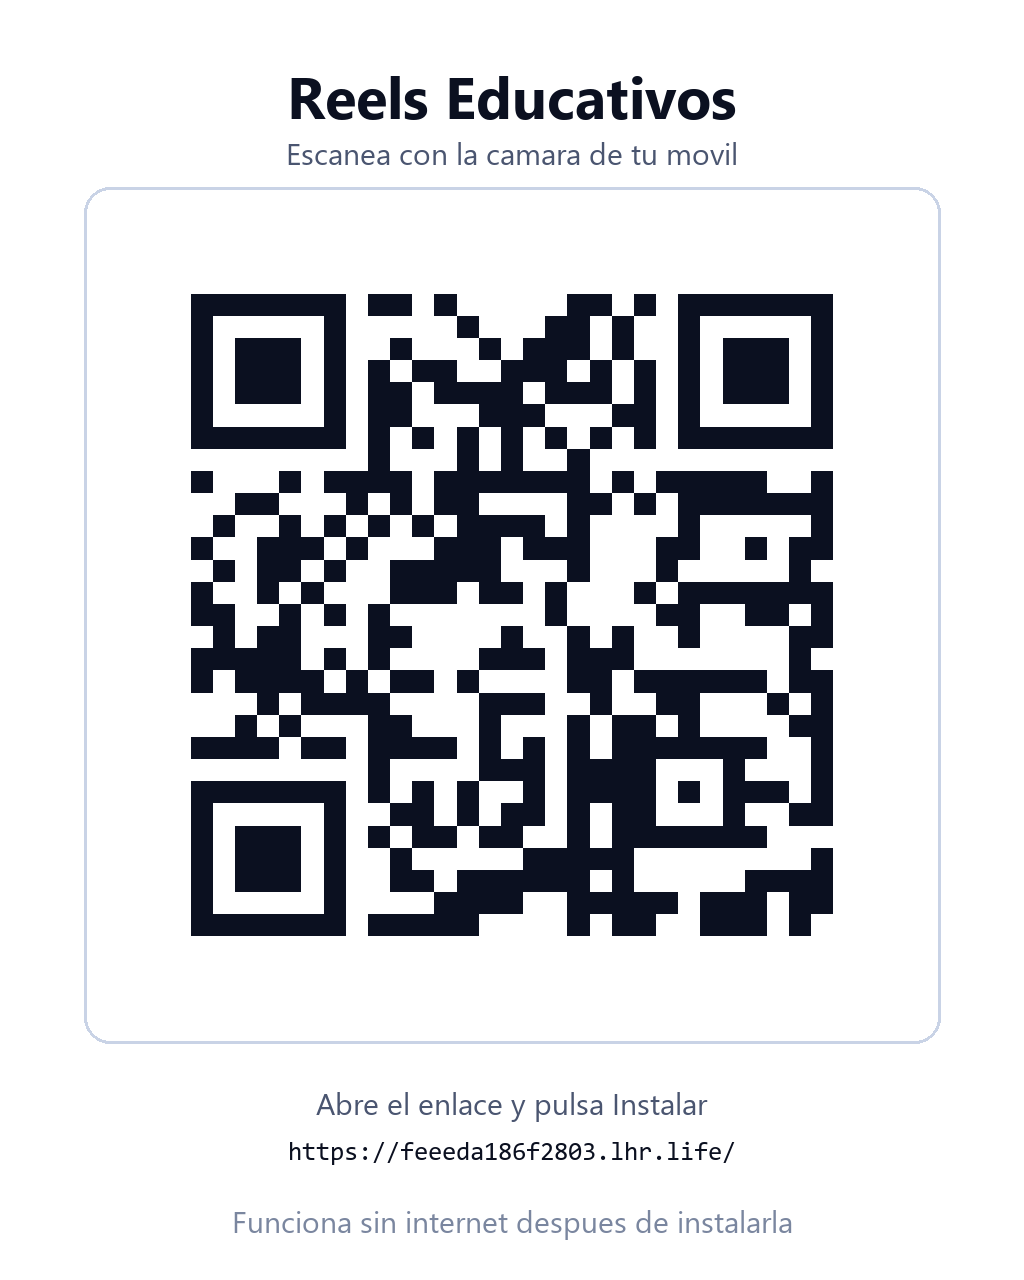
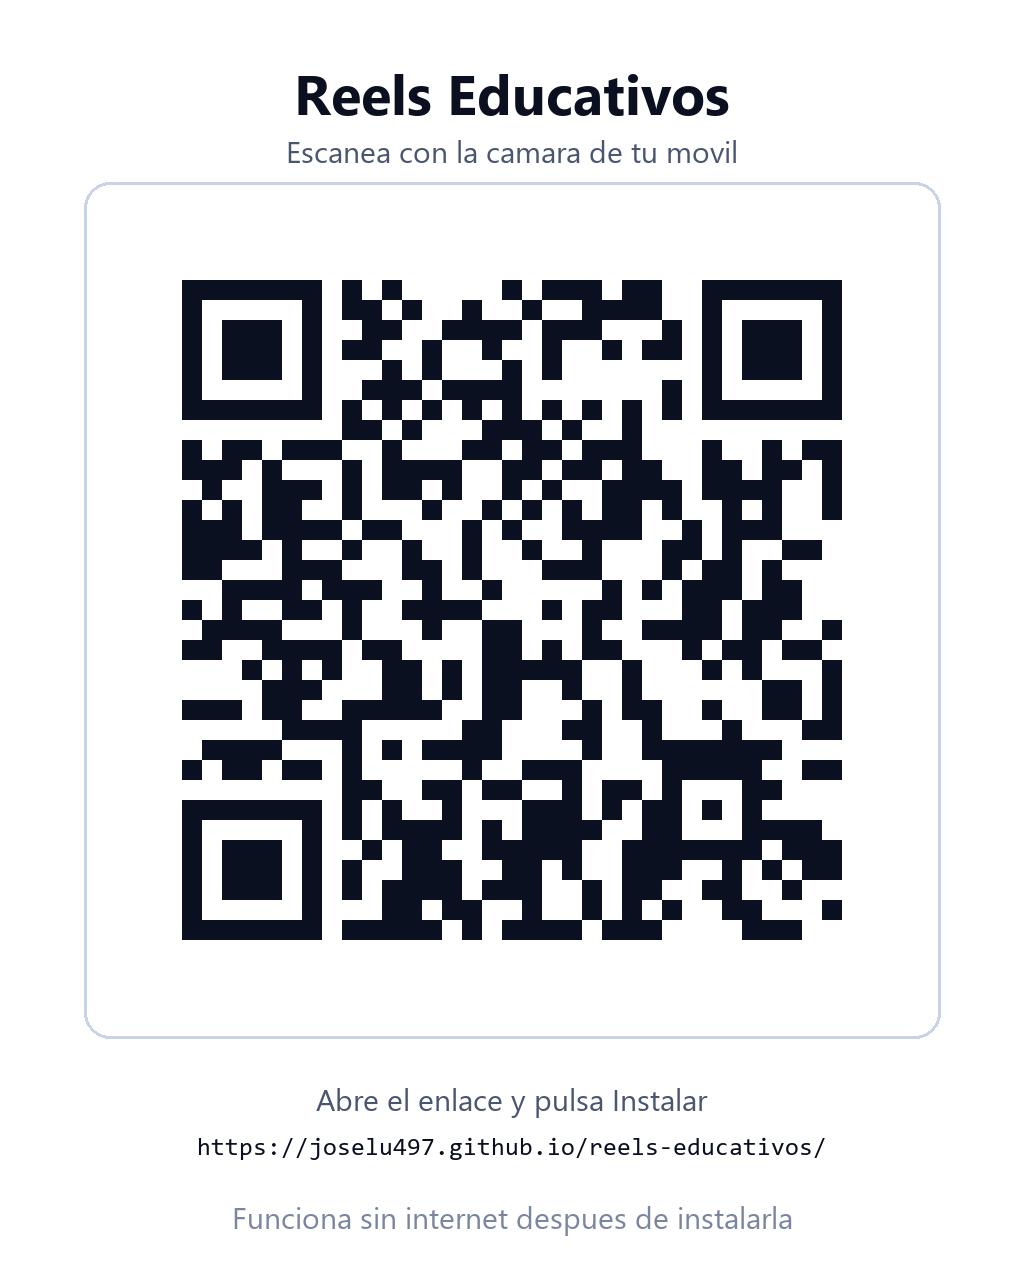
Actualiza QR con el enlace definitivo y documentacion

diff --git a/reels-educativos/LEEME.md b/reels-educativos/LEEME.md
@@ -6,12 +6,18 @@ App web instalable para crear **videos verticales educativos** con dibujos y for
 
 ## 1. Cómo abrirla
 
+### Ya está publicada (lo más rápido)
+
+**Enlace:** https://joselu497.github.io/reels-educativos/
+
+Abre ese enlace en el móvil o escanea `qr-reels.png`. Está alojada gratis en GitHub Pages, así que el enlace es fijo y no depende de ningún PC encendido.
+
 ### Opción A · Instalarla como app (recomendada)
 
-La app necesita abrirse desde una dirección `https://` para poder instalarse, usar el micrófono y funcionar sin internet. Puedes publicar esta carpeta gratis en:
+La app necesita abrirse desde una dirección `https://` para poder instalarse, usar el micrófono y funcionar sin internet. Si algún día quieres publicarla en otro sitio, esta carpeta funciona tal cual en:
 
-- **Netlify Drop** — entra a `app.netlify.com/drop` y arrastra la carpeta `reels-movil`. Te da un enlace `https://…` al instante.
 - **GitHub Pages** — sube la carpeta a un repositorio y activa Pages en *Settings → Pages*.
+- **Netlify** — arrastra la carpeta en `app.netlify.com`.
 - **Cloudflare Pages** — crea un proyecto y sube la carpeta.
 - **Vercel** — importa el repositorio o arrastra la carpeta.
 
@@ -193,7 +199,7 @@ reels-movil/
 - **Estilos:** `css/estilos.css` usa variables CSS al inicio del archivo.
 - **Iconos:** edita y ejecuta `python herramientas/hacer_iconos.py`.
 
-Después de cambiar archivos, sube la versión del caché en `sw.js` (`reels-educativos-v3` → `v4`) para que los dispositivos instalados reciban los cambios.
+Después de cambiar archivos, sube la versión del caché en `sw.js` (`reels-educativos-v5` → `v6`) y haz `git push` para que los dispositivos instalados reciban los cambios.
 
 ---
 
